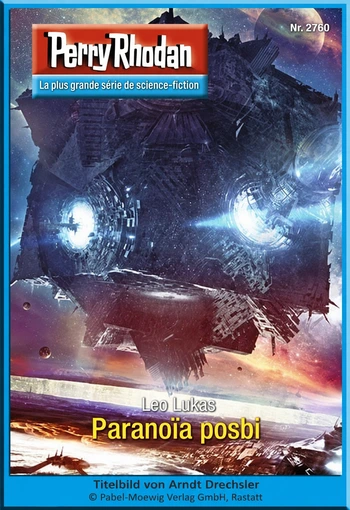
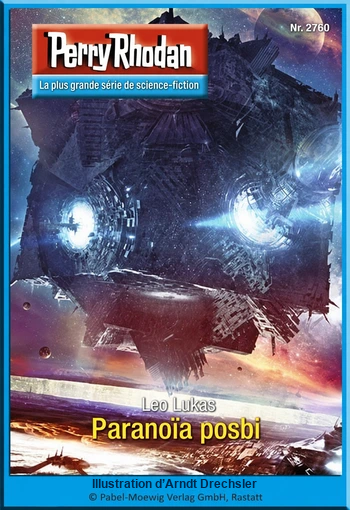
fix: translate illustrator credits on covers 2760-2762

Changed region(s): [[0.2571, 0.9412, 0.7429, 0.9706]]

diff --git a/src/content/chapitres/de-2762.md b/src/content/chapitres/de-2762.md
@@ -4,7 +4,7 @@ cycleNumber: 38
 chapterNumber: 2762
 type: translation
 originalTitle: "Die Meister-Statue"
-cover: "/images/covers/de-2762.webp?v=20261116-2762-fr"
+cover: "/images/covers/de-2762.webp?v=20261118-2762-fr"
 auteur: "Michael Marcus Thurner"
 parution: "2014-08-08"
 statut: traduit

diff --git a/src/content/chapitres/de-2761.md b/src/content/chapitres/de-2761.md
@@ -4,7 +4,7 @@ cycleNumber: 38
 chapterNumber: 2761
 type: translation
 originalTitle: "Die Erben Lemurias"
-cover: "/images/covers/de-2761.webp?v=20261116-2761-fr"
+cover: "/images/covers/de-2761.webp?v=20261118-2761-fr"
 auteur: "Hubert Haensel"
 parution: "2014-08-01"
 statut: traduit

diff --git a/src/content/chapitres/de-2760.md b/src/content/chapitres/de-2760.md
@@ -4,7 +4,7 @@ cycleNumber: 38
 chapterNumber: 2760
 type: translation
 originalTitle: "Posbi-Paranoia"
-cover: "/images/covers/de-2760.webp?v=20261116-2760-fr"
+cover: "/images/covers/de-2760.webp?v=20261118-2760-fr"
 auteur: "Leo Lukas"
 parution: "2014-07-25"
 statut: traduit
